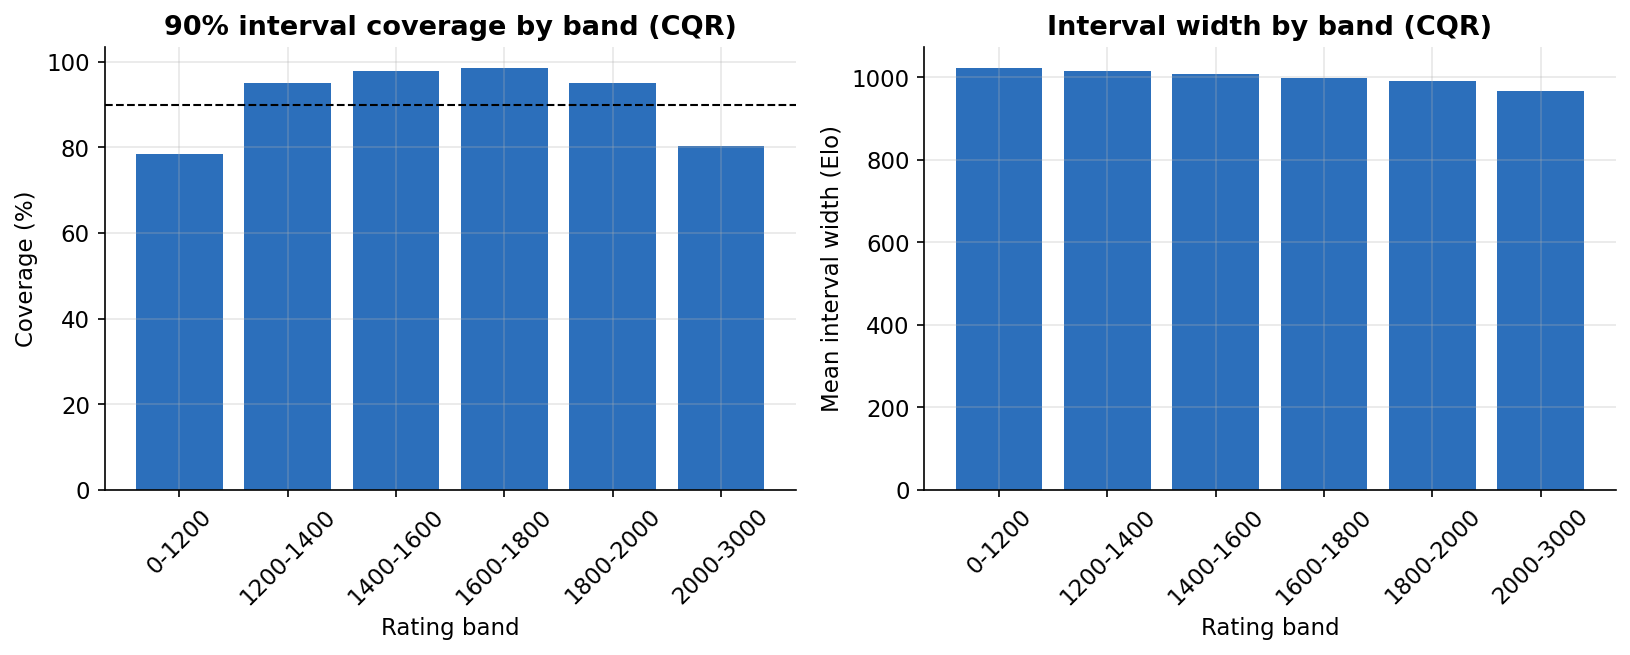
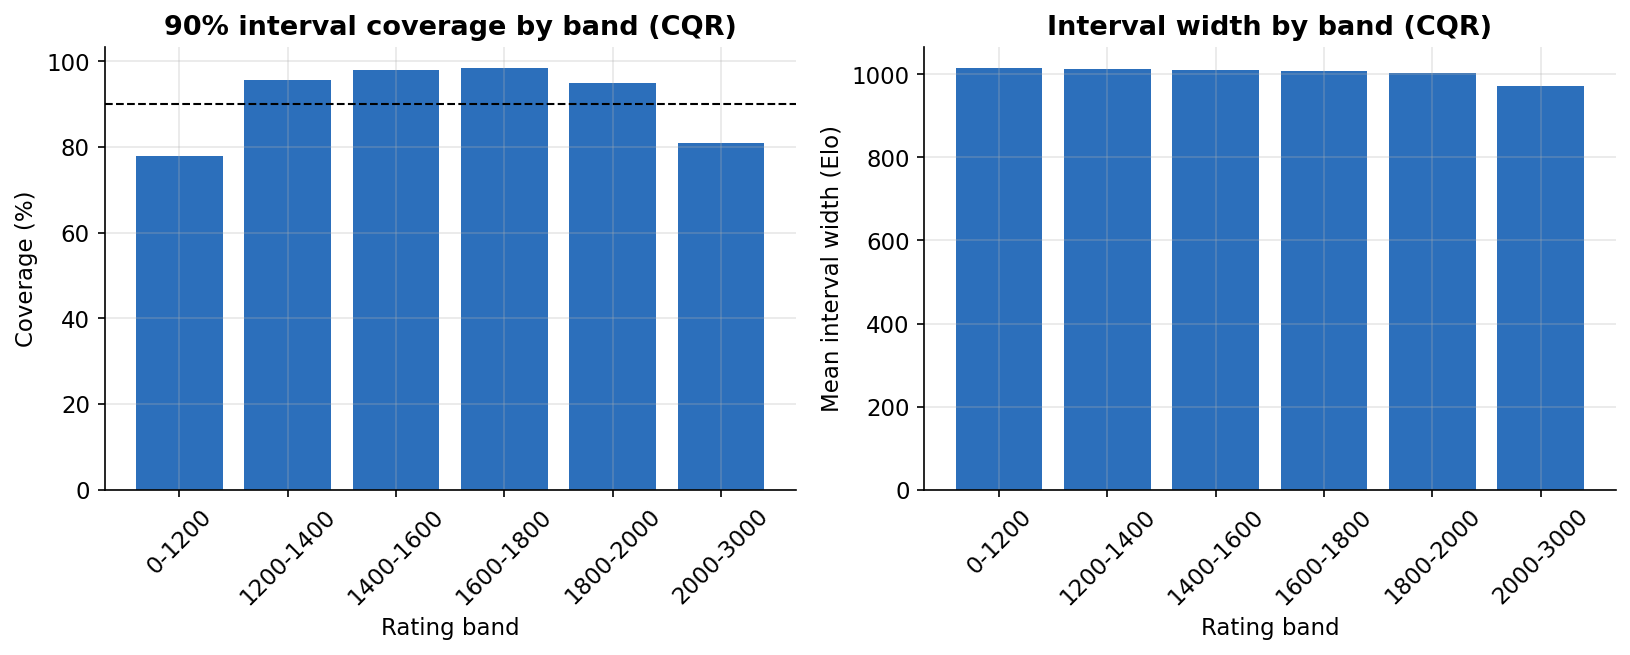
exp+docs: tuned 300k run, scramble + Mondrian measurements, limitations
results.md: tuned block (MAE 239.4 -> 237.4, per-player 216.7, CQR 89.8%)
and the v2 run (77 features incl scramble, Mondrian headline 89.9%).
Findings recorded honestly: scramble features are performance-neutral
(tails 313/282 unchanged) and Mondrian matches plain CQR per TRUE band --
prediction shrinkage empties the extreme predicted bands, confirming the
single-game noise floor. _append_results_md now persists best_params
(the Optuna study previously died with the process).

Claude-Session: https://claude.ai/code/session_013F37qEJ95hnSpxxxFzWgKX

diff --git a/src/evaluate.py b/src/evaluate.py
@@ -612,6 +612,9 @@ def _append_results_md(path: str | Path, r: dict[str, Any], tuned: bool) -> None
     ]
     if "tuned_mae" in r:
         lines.append(f"| + tuned | {r['tuned_mae']:.1f} | {r['tuned_rmse']:.1f} |")
+    if r.get("best_params"):
+        # Persist the winning hyperparameters — the Optuna study lives only in this process.
+        lines.append(f"\n- best_params: `{r['best_params']}`")
     p, pp = r["point"], r["per_player"]
     lines += [
         "",

diff --git a/README.md b/README.md
@@ -197,12 +197,16 @@ must run top-to-bottom (Restart & Run All) before they're considered done.
 - **Single-game noise floor:** one blitz game can't pin a rating; precision comes from aggregating
   across a player's games. This is a finding, not a bug.
 - **Tail error is (mostly) irreducible single-game noise, not fixable bias.** Error concentrates at
-  the rating extremes (0–1200 MAE 347, over-predicting; 2000+ MAE 280, under-predicting) vs ~180 in
-  the middle. We tested corrections (`python -m src.evaluate --tail-study`): post-hoc de-shrink fits a
-  slope of **≈1.01** — i.e. the model is **already calibrated** (E[true|pred] ≈ pred) — and band
-  reweighting only *redistributes* error across bands (overall MAE flat-to-worse). So the tail
-  shrinkage is the statistically optimal response to weak single-game evidence, not a bug. The real
-  levers are **aggregation** (more games per player) and **better tail-discriminating features**.
+  the rating extremes (300k: 0–1200 MAE 313, over-predicting; 2000+ MAE 282, under-predicting) vs
+  ~190 in the middle. We tested corrections (`python -m src.evaluate --tail-study`): post-hoc
+  de-shrink fits a slope of **≈1.0** — i.e. the model is **already calibrated** (E[true|pred] ≈
+  pred) — and band reweighting only *redistributes* error across bands. We also added
+  **clock-scramble features** (quality/tempo with <30s on the clock, incl. the degradation delta
+  vs overall CPL): individually informative (median degradation +8 cpl under pressure) but overall
+  and tail MAE unchanged (239.4 → 239.1; tails 313/282 → 313/282) — the existing clock+quality
+  features already carry the signal. So the tail shrinkage is the statistically optimal response
+  to weak single-game evidence, not a bug; the one real lever is **aggregation** (more games per
+  player: MAE 235 at K=1 → 200 at K=5).
 - **Aggregation-curve cohort:** a uniform *game* sample has few players with many games, so each K in
   the aggregation curve is a different, shrinking cohort (higher-K points are noisier and not
   apples-to-apples). `ingest.py` now also writes a **player-cohort sample**
@@ -213,8 +217,12 @@ must run top-to-bottom (Restart & Run All) before they're considered done.
   quantile interval under-covers (~85%). We now apply split conformalized quantile regression
   (CQR): a dedicated grouped **calibration split** (never seen by any fit; see `model.calib_size`)
   supplies a finite-sample correction that widens/narrows the interval for guaranteed *marginal*
-  coverage (measured: raw 84.6% → CQR 90.8%). The guarantee is marginal only: per-band coverage
-  still dips at the extremes (~75% at 0–1200, ~82% at 2000+) because interval width barely adapts
-  across bands (see `reports/figures/interval_by_band.png`). Backlog: band-conditional (Mondrian)
-  CQR for per-band guarantees.
+  coverage (measured on 300k: raw 87.4% → CQR 89.8%). The guarantee is marginal only: per-band
+  coverage still dips at the extremes (~78% at 0–1200, ~81% at 2000+) because interval width barely
+  adapts across bands (see `reports/figures/interval_by_band.png`). **Band-conditional (Mondrian)
+  CQR was implemented and measured** (`model.mondrian_cqr`): it guarantees coverage conditional on
+  the *predicted* band (the only test-time-legal conditioning), but per-*true*-band coverage is
+  unchanged vs plain CQR (78/96/98/98/95/81) — prediction shrinkage leaves the extreme predicted
+  bands nearly empty, so no test-time-legal recalibration can fix true-band tail coverage. This is
+  the interval-space face of the single-game noise floor, not a calibration defect.
 - **Scope:** blitz only; results may not transfer to rapid/classical.

diff --git a/reports/results.md b/reports/results.md
@@ -97,3 +97,38 @@ n_train=329353, n_calib=59124, n_test=120513, n_features=69
 - band accuracy: 36.5% exact, 75.9% adjacent
 - aggregation MAE: K1=235, K2=209, K3=202, K5=200, K10=203, K20=218
 - ablation (MAE↑ when dropped): engine +33.8, clock +9.8, style +8.1, opening +8.0
+
+## 2026-07-06 01:12 — improved model (tuned)
+n_train=329353, n_calib=59124, n_test=120513, n_features=69
+
+| stage | MAE | RMSE |
+|---|---|---|
+| no-engine baseline | 293.4 | — |
+| + engine/clock | 239.4 | 300.4 |
+| + tuned | 237.4 | 297.9 |
+
+- median AE 201, R² 0.552, Spearman 0.730, within 100/200 Elo 26%/50%, bias -3.3
+- per-player (all games averaged): **216.7** MAE over 50357 players
+- 90% interval coverage: raw 87.1% -> CQR **89.8%** (width 931 -> 992 Elo; correction lo=30.0, hi=30.0)
+- coverage by band: 0-1200 78%, 1200-1400 95%, 1400-1600 98%, 1600-1800 98%, 1800-2000 95%, 2000-3000 80%
+- band accuracy: 36.6% exact, 76.2% adjacent
+- aggregation MAE: K1=233, K2=207, K3=201, K5=199, K10=202, K20=217
+- ablation (MAE↑ when dropped): engine +33.8, clock +9.8, style +8.1, opening +8.0
+
+## 2026-07-06 01:29 — improved model
+n_train=329353, n_calib=59124, n_test=120513, n_features=77
+
+| stage | MAE | RMSE |
+|---|---|---|
+| no-engine baseline | 293.4 | — |
+| + engine/clock | 239.1 | 300.1 |
+
+- median AE 202, R² 0.545, Spearman 0.726, within 100/200 Elo 26%/50%, bias -3.4
+- per-player (all games averaged): **218.2** MAE over 50357 players
+- 90% interval coverage: raw 87.4% -> CQR(plain) **89.8%** (width 945 -> 999 Elo; correction lo=27.1, hi=27.1)
+- Mondrian CQR: **89.9%** (width 1001 Elo) — headline
+- coverage by band (headline=mondrian): 0-1200 78%, 1200-1400 96%, 1400-1600 98%, 1600-1800 98%, 1800-2000 95%, 2000-3000 81%
+- per-band coverage, plain/Mondrian: 0-1200 78%/78%, 1200-1400 95%/96%, 1400-1600 98%/98%, 1600-1800 99%/98%, 1800-2000 95%/95%, 2000-3000 80%/81%
+- band accuracy: 36.4% exact, 75.9% adjacent
+- aggregation MAE: K1=235, K2=209, K3=202, K5=200, K10=203, K20=217
+- ablation (MAE↑ when dropped): engine +33.6, clock +9.1, opening +8.2, style +7.9
